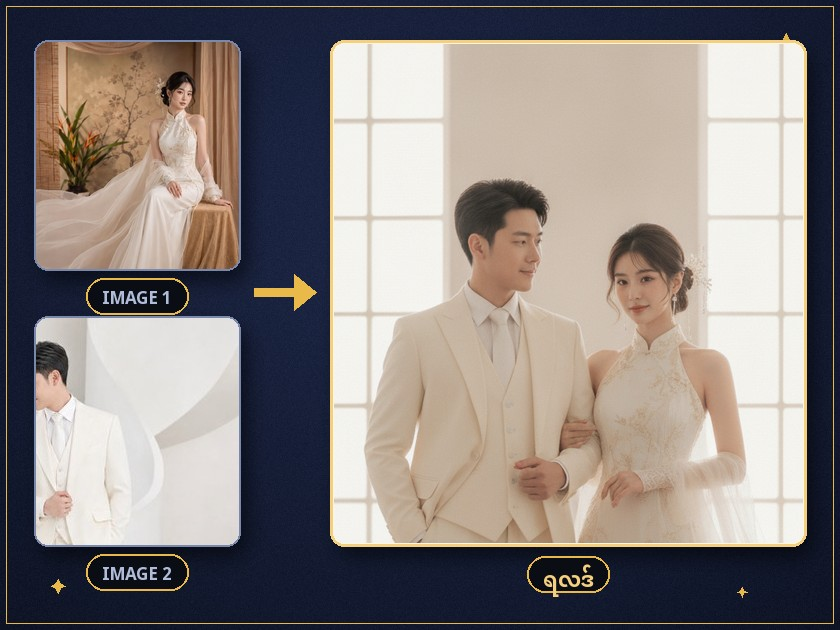
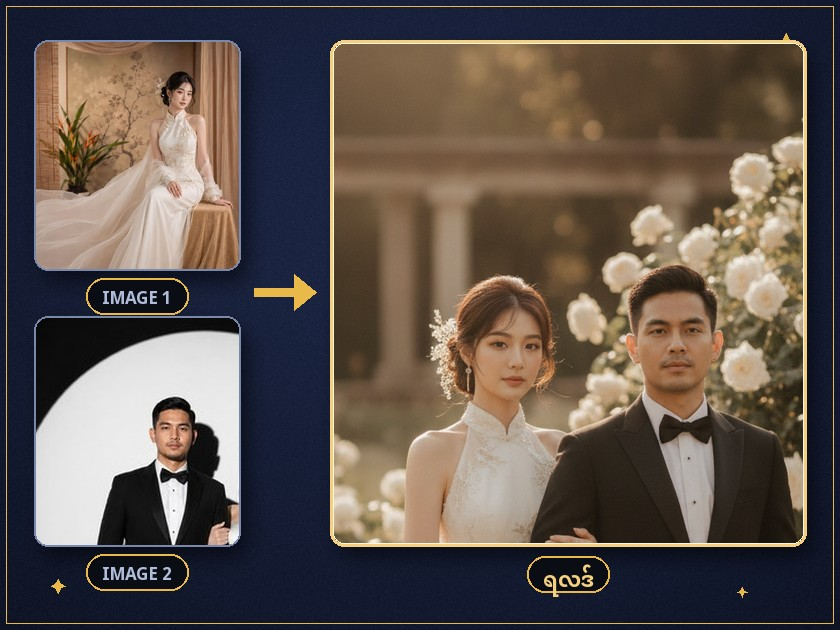
fix: Couple Compose card — groom's face was cropped out / unclear
The IMAGE 2 preview thumbnail used a tightly-cropped profile shot of the
groom (from a couple photo) that read as barely-visible hair at thumbnail
size, and the groom's face wasn't clearly forward-facing to begin with.

Replaced the source with a clear, front-facing solo groom crop and
regenerated the result through the actual shipped Couple Compose prompt
so the shown IMAGE 2 face matches the result face exactly. Bumped the
service worker cache so the old cached card image doesn't linger for
existing visitors.

diff --git a/docs/app/sw.js b/docs/app/sw.js
@@ -1,6 +1,6 @@
 /* HNK Web Studio service worker — cache-first for library assets,
    network-first for everything else (so app updates arrive immediately). */
-var CACHE = "hnk-web-studio-v4-4-15";
+var CACHE = "hnk-web-studio-v4-4-15b";
 
 self.addEventListener("install", function (e) {
   self.skipWaiting();
